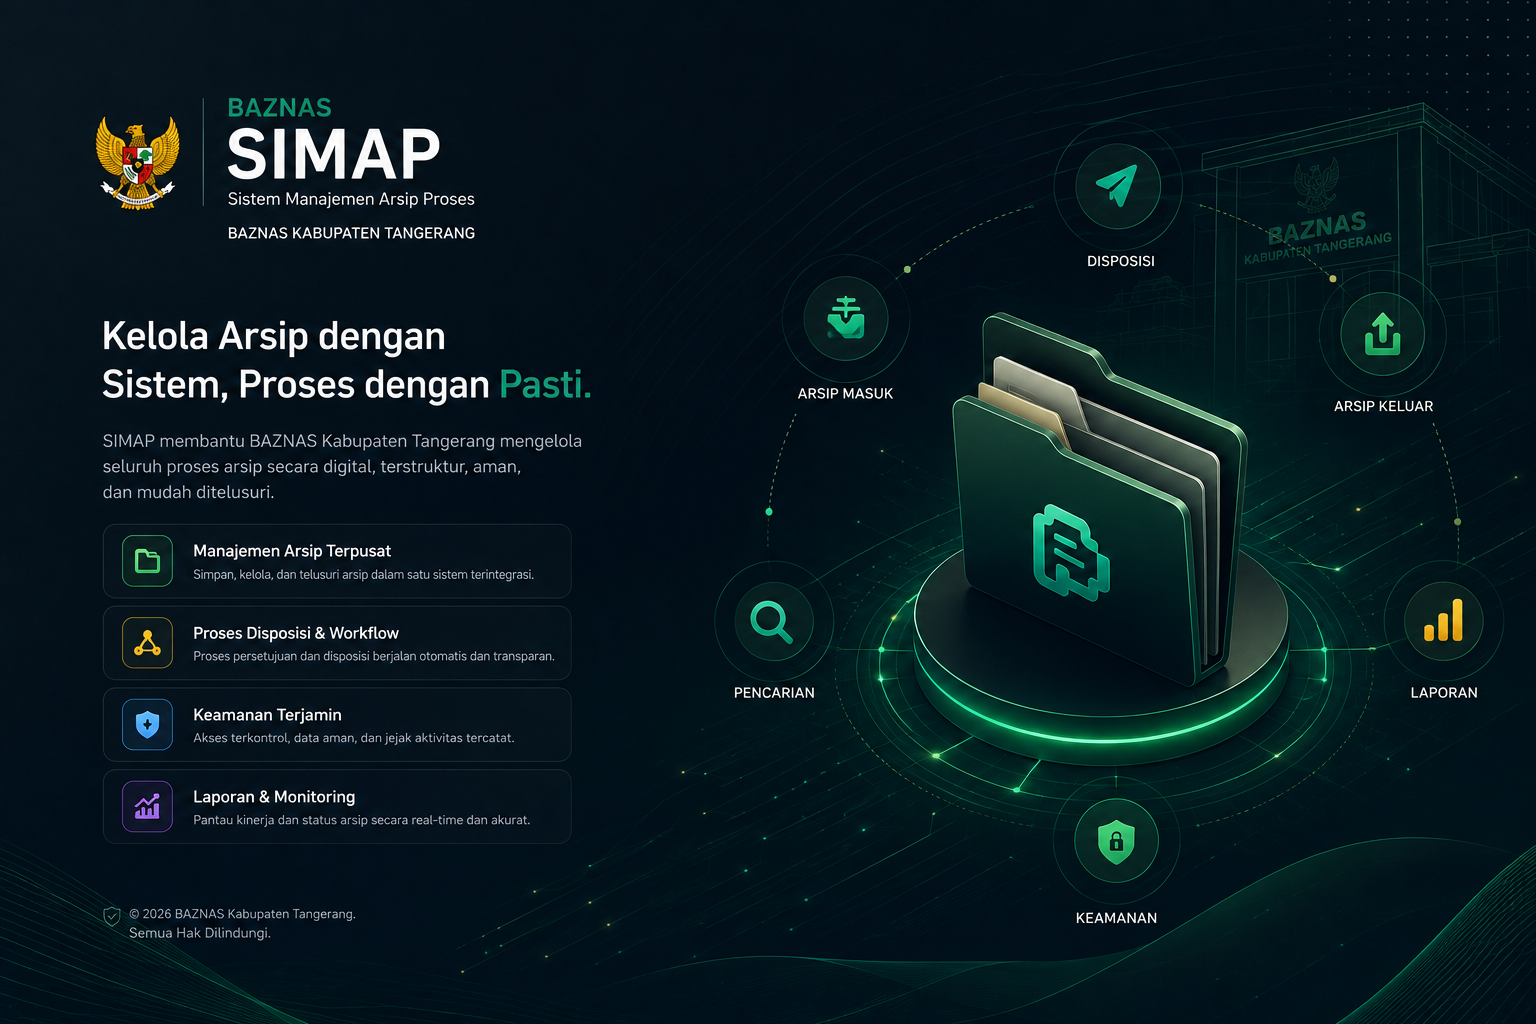
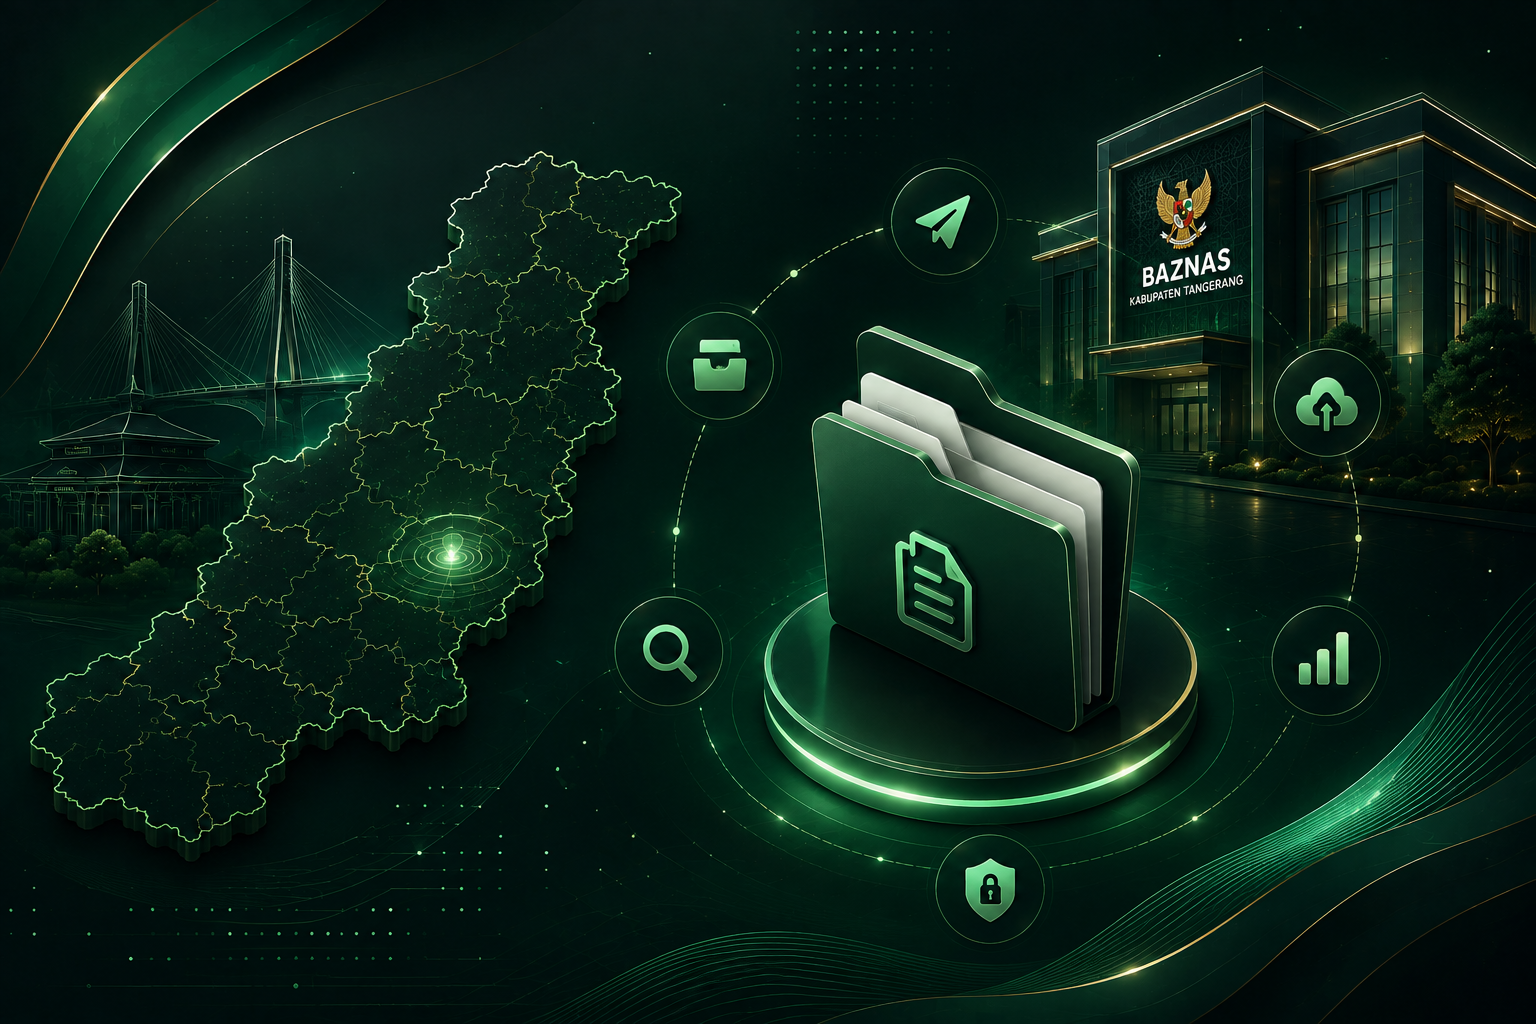
fix: resolve theme toggle button clickability and scale background image to compact 48%

diff --git a/templates/layouts/base.html b/templates/layouts/base.html
@@ -41,15 +41,15 @@
         html, body {
             background-color: #060D12 !important;
             background-image: url("{% static 'img/simap_bg.png' %}") !important;
-            background-size: 70% auto !important;
-            background-position: center 45% !important;
+            background-size: 48% auto !important;
+            background-position: center 40% !important;
             background-attachment: fixed !important;
             background-repeat: no-repeat !important;
             min-height: 100vh;
         }
         @media (max-width: 991.98px) {
             html, body {
-                background-size: 92% auto !important;
+                background-size: 80% auto !important;
                 background-position: center 30% !important;
             }
         }
@@ -226,11 +226,6 @@
 
         body {
             font-family: 'Inter', sans-serif;
-            background-image: url("/static/img/simap_bg.png") !important;
-            background-size: cover !important;
-            background-position: center center !important;
-            background-attachment: fixed !important;
-            background-repeat: no-repeat !important;
             color: var(--text-primary);
             overflow-x: hidden;
         }

diff --git a/templates/layouts/navbar.html b/templates/layouts/navbar.html
@@ -7,7 +7,7 @@
     </div>
 
     <div class="d-flex align-items-center">
-        <button id="themeToggleGlobal" onclick="if(window.toggleThemeGlobal) window.toggleThemeGlobal();" class="btn btn-sm rounded-pill px-3 py-1 me-3 d-flex align-items-center gap-2 border-0 shadow-sm" type="button" style="background-color: rgba(255, 255, 255, 0.2); color: #FFFFFF;" title="Sakelar Tema (Gelap / Terang)">
+        <button id="themeToggleGlobal" type="button" class="btn btn-sm rounded-pill px-3 py-1 me-3 d-flex align-items-center gap-2 border-0 shadow-sm" style="background-color: rgba(255, 255, 255, 0.2); color: #FFFFFF;" title="Sakelar Tema (Gelap / Terang)">
             <i class="bi bi-moon-stars-fill text-warning fs-6" id="themeIconGlobal"></i>
             <span class="small fw-semibold text-white d-none d-md-inline" id="themeTextGlobal">Mode Terang</span>
         </button>
